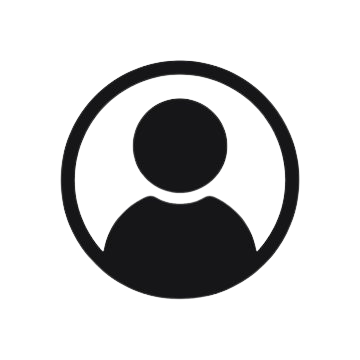
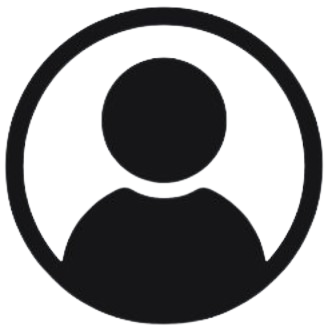
Updated NavBar
added dropdown menu

diff --git a/itinerary_planner/src/components/nav-bar/Navbar.jsx b/itinerary_planner/src/components/nav-bar/Navbar.jsx
@@ -3,6 +3,7 @@ import SpotlightCard from '../spotlight-card/SpotlightCard.jsx'
 import styles from "./Navbar.module.css"
 import { useAuth } from '../../contexts/authContexts/index.jsx'
 import { doSignOut } from '../../firebase/auth.js';
+import { useState } from 'react';
 
 function NavBar() {
   const { userLoggedIn } = useAuth();
@@ -14,35 +15,65 @@ function NavBar() {
         <img src="/shepherd_logo.png" alt="Logo" className={styles.logo} />
       </Link>
 
-      { userLoggedIn
-        ?
-        <div className={styles.buttonContainer}>
-          <button className={styles.spotlightButton} onClick={() => { doSignOut().then(() => { navigate("/") }) }}>
-            <SpotlightCard className={styles.spotlightCard}>
-              <h4 className={styles.spotlightText}>Log Out</h4>
-            </SpotlightCard>
-          </button>
-        </div>
-        :
-        <div className={styles.buttonContainer}>
-          <Link to={"/login"} viewTransition>
-            <button className={styles.spotlightButton}>
-              <SpotlightCard className={styles.spotlightCard}>
-                <h4 className={styles.spotlightText}>Login</h4>
-              </SpotlightCard>
-            </button>
-          </Link>
-
-          <Link to={"/register"} viewTransition>
-            <button className={styles.spotlightButton}>
-              <SpotlightCard className={styles.spotlightCard}>
-                <h4 className={styles.spotlightText}>Register</h4>
-              </SpotlightCard>
-            </button>
-          </Link>
-        </div>
-      }
+      { userLoggedIn ? <LoggedIn navigate={navigate} /> : <LoggedOut /> }
     </nav>
+  )
+}
+
+function LoggedIn({ navigate }) {
+  const [isOpen, setIsOpen] = useState(false);
+
+  const toggleDropdown = () => setIsOpen(prev => !prev);
+  const closeDropdown = () => setIsOpen(false);
+  return (
+    <div className={styles.dropdown}>
+      <img
+        src="/user.png"
+        className={styles.icon}
+        onClick={toggleDropdown}
+      />
+
+      { isOpen && (
+        <div className={styles.content} onMouseLeave={ closeDropdown }>
+          <Link to="/app" onClick={closeDropdown}>App</Link>
+          <Link to="/login" onClick={closeDropdown}>Plans</Link>
+          <Link
+            to="/register"
+            onClick={(e) => {
+              e.preventDefault();
+              doSignOut().then(() => {
+                closeDropdown();
+                navigate("/");
+              });
+            }}
+          >
+            Log Out
+          </Link>
+        </div>
+      )}
+    </div>
+  )
+}
+
+function LoggedOut() {
+  return (
+    <div className={styles.buttonContainer}>
+      <Link to={"/login"} viewTransition>
+        <button className={styles.spotlightButton}>
+          <SpotlightCard className={styles.spotlightCard}>
+            <h4 className={styles.spotlightText}>Login</h4>
+          </SpotlightCard>
+        </button>
+      </Link>
+
+      <Link to={"/register"} viewTransition>
+        <button className={styles.spotlightButton}>
+          <SpotlightCard className={styles.spotlightCard}>
+            <h4 className={styles.spotlightText}>Register</h4>
+          </SpotlightCard>
+        </button>
+      </Link>
+    </div>
   )
 }
 

diff --git a/itinerary_planner/src/components/nav-bar/Navbar.module.css b/itinerary_planner/src/components/nav-bar/Navbar.module.css
@@ -38,3 +38,47 @@
   font-size: 1.2rem;
   max-height: 50px;
 }
+
+.navbar .dropdown {
+  position: relative;
+  display: inline-block;
+}
+
+.navbar .dropdown .icon {
+  max-height: 50px;
+  width: auto;
+}
+
+.navbar .dropdown .content {
+  position: absolute;
+  right: 0;
+  background-color: rgba(255, 255, 255, 0.7);
+  min-width: 100px;
+  z-index: 1;
+  flex-direction: column;
+  top: 100%;
+  left: 50%;
+  transform: translateX(-50%);
+}
+
+.navbar .dropdown .content a {
+  color: #3A5A40;
+  display: block;
+  padding: 0.75rem;
+  text-decoration: none;
+}
+
+button {
+  background-color: #B0C4B1;
+  color: #fff;
+  border: none;
+  padding: 0.5rem 1rem;
+  margin-left: 1rem;
+  border-radius: 5px;
+  cursor: pointer;
+  transition: 0.3s;
+}
+
+.navbar button:hover {
+  background-color: #DEDBD2;
+}

diff --git a/itinerary_planner/src/components/register/Register.jsx b/itinerary_planner/src/components/register/Register.jsx
@@ -40,8 +40,8 @@ function Register() {
     } else {
       try {
         // create new user using Firebase authentication
-        const registered = await doCreateUserWithEmailAndPassword(email, password)
-        const user = registered.user;
+        const userCredential = await doCreateUserWithEmailAndPassword(email, password)
+        const user = userCredential.user;
         // add blank user doc to Firestore database
         await setDoc(doc(db, "users", user.uid), {
           email: email,
